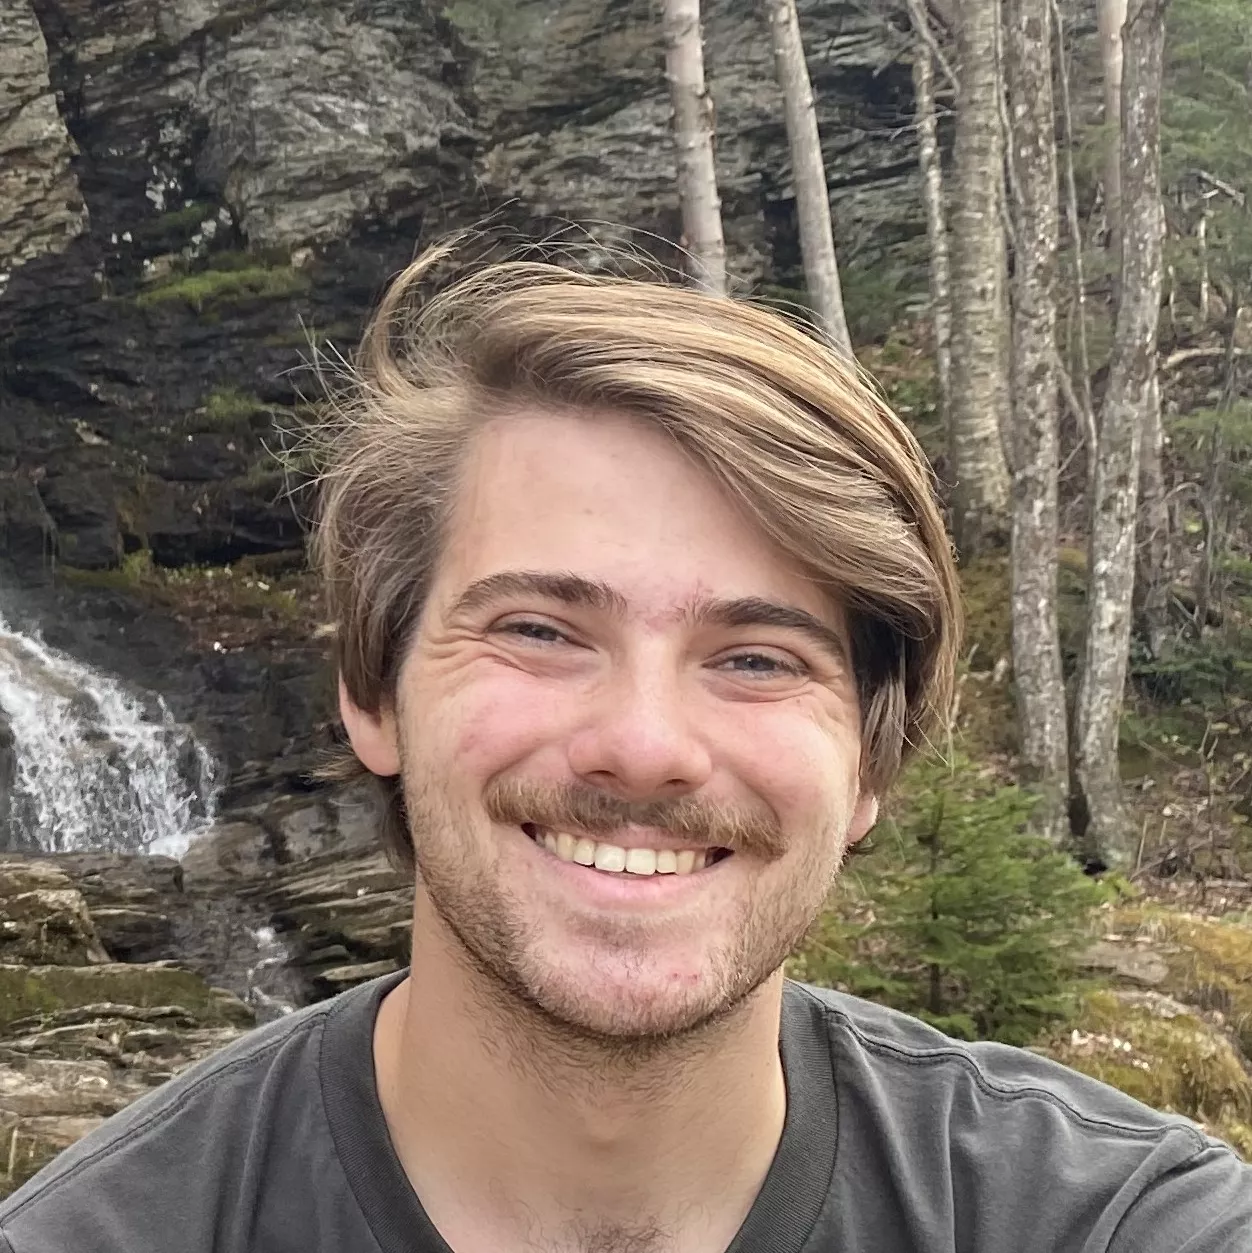
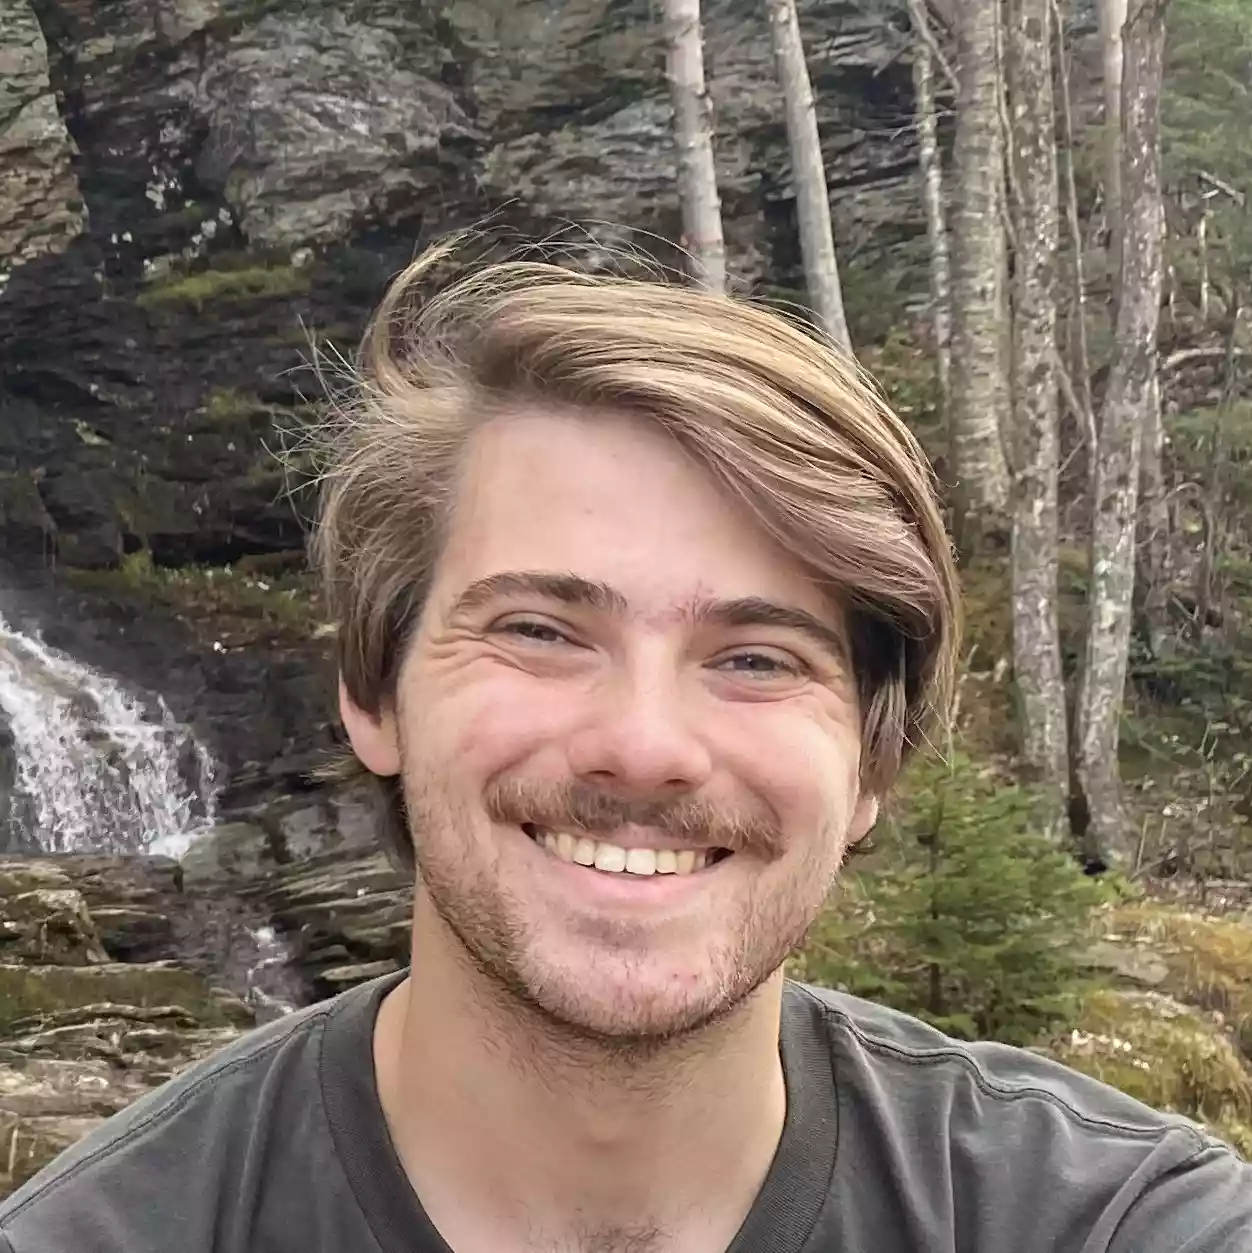
Decrease quality of pictures to save time

diff --git a/src/sections/Projects.tsx b/src/sections/Projects.tsx
@@ -25,6 +25,14 @@ function Projects() {
             logo="/schwab_logo.svg"
             linkedSites={linkedSites}
           />
+          <ProjectModal
+            projectName="UCF"
+            position="Associate Software Engineer"
+            timePeriod="Jun. 2023 - Present"
+            description="I started worked at Charles Schwab as a software developer intern from June 2022 to August 2022. I enjoyed the company culture of Charles Schwab and learned a lot in those nine weeks, thanks to my manager and technical advisors. When I was offered a role to come back full time after graduation, I was happy to accept. While my team is based primarily in Phoenix, Arizona, I work remotely in Orlando, Florida. My role in the firm is in Retirement Business Services. I have done different dev tasks such as writing new API endpoints, scripting test automation, and managing servers."
+            logo="/schwab_logo.svg"
+            linkedSites={linkedSites}
+          />
         </div>
       </div>
     </div>
